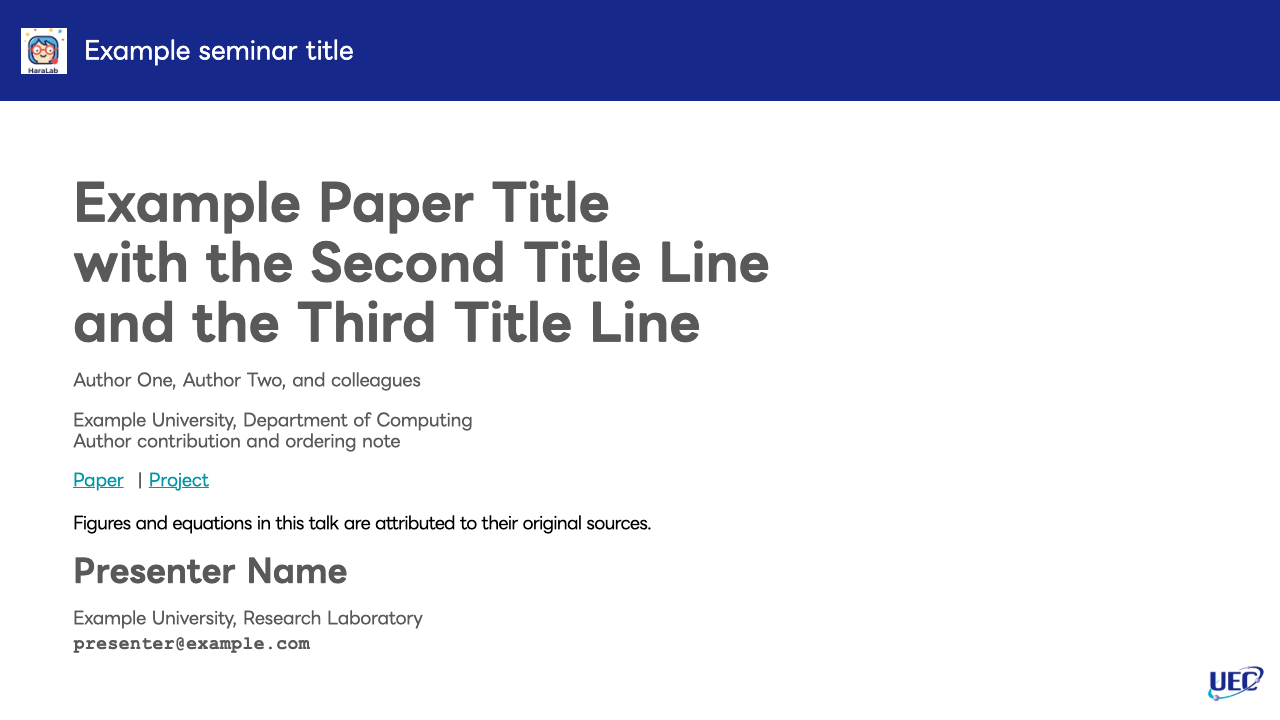
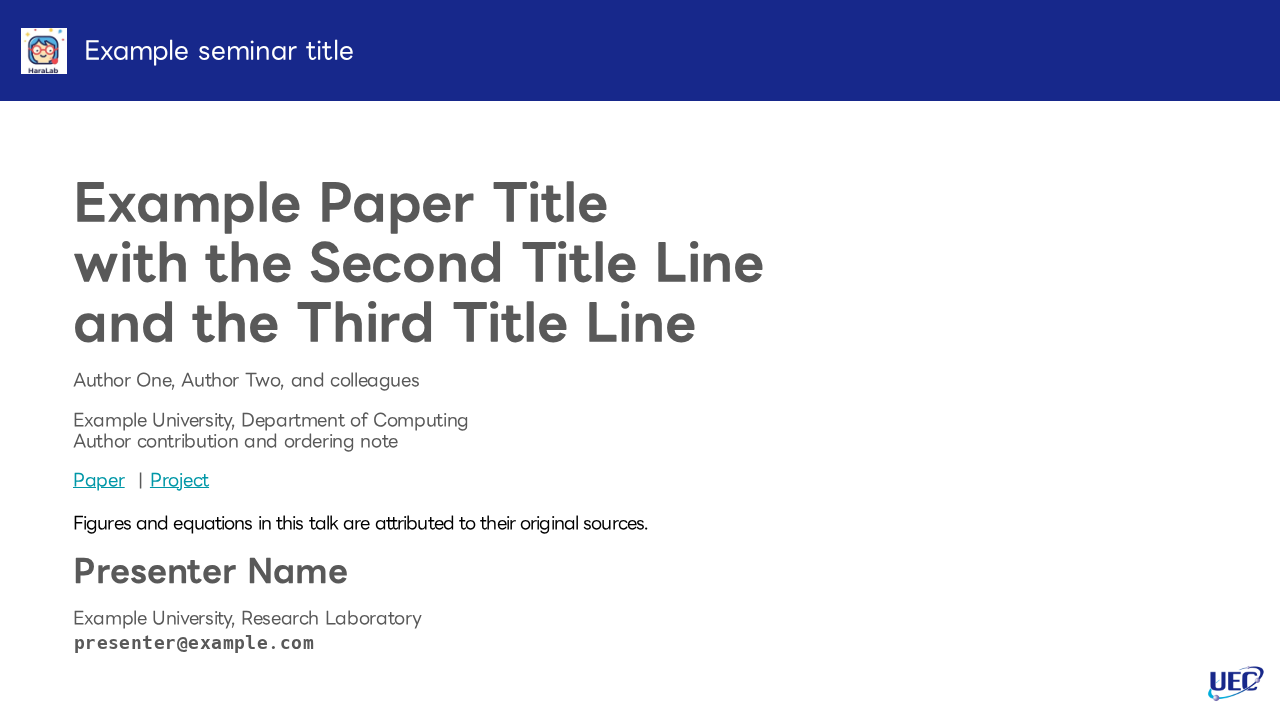
fix(uec-haralab): wrap Japanese phrases naturally

diff --git a/themes/uec-haralab.css b/themes/uec-haralab.css
@@ -134,6 +134,11 @@ section ul {
   margin-top: 0;
 }
 
+section[lang="ja"] {
+  word-break: auto-phrase;
+  text-wrap: pretty;
+}
+
 section:not(.title-page) {
   padding: var(--uec-content-top) var(--uec-content-inline) 44px;
   font-size: var(--uec-body-font-size);

diff --git a/scripts/fixtures/uec-phrase-wrap.md b/scripts/fixtures/uec-phrase-wrap.md
@@ -1,0 +1,13 @@
+---
+marp: true
+theme: uec-haralab
+size: 16:9
+lang: ja
+paginate: false
+---
+
+<!-- _class: title-page centered -->
+
+# 長い日本語の研究題目を意味のまとまりを保って表示するための自然な折り返し方法を検討する
+
+この資料では、自然言語処理モデルの評価に使う日本語データを複数の資料から集め、文章の意味が変わらない単位で整理してから、同じ条件で比較できる評価用データとしてまとめるための手順を具体的に説明する。
